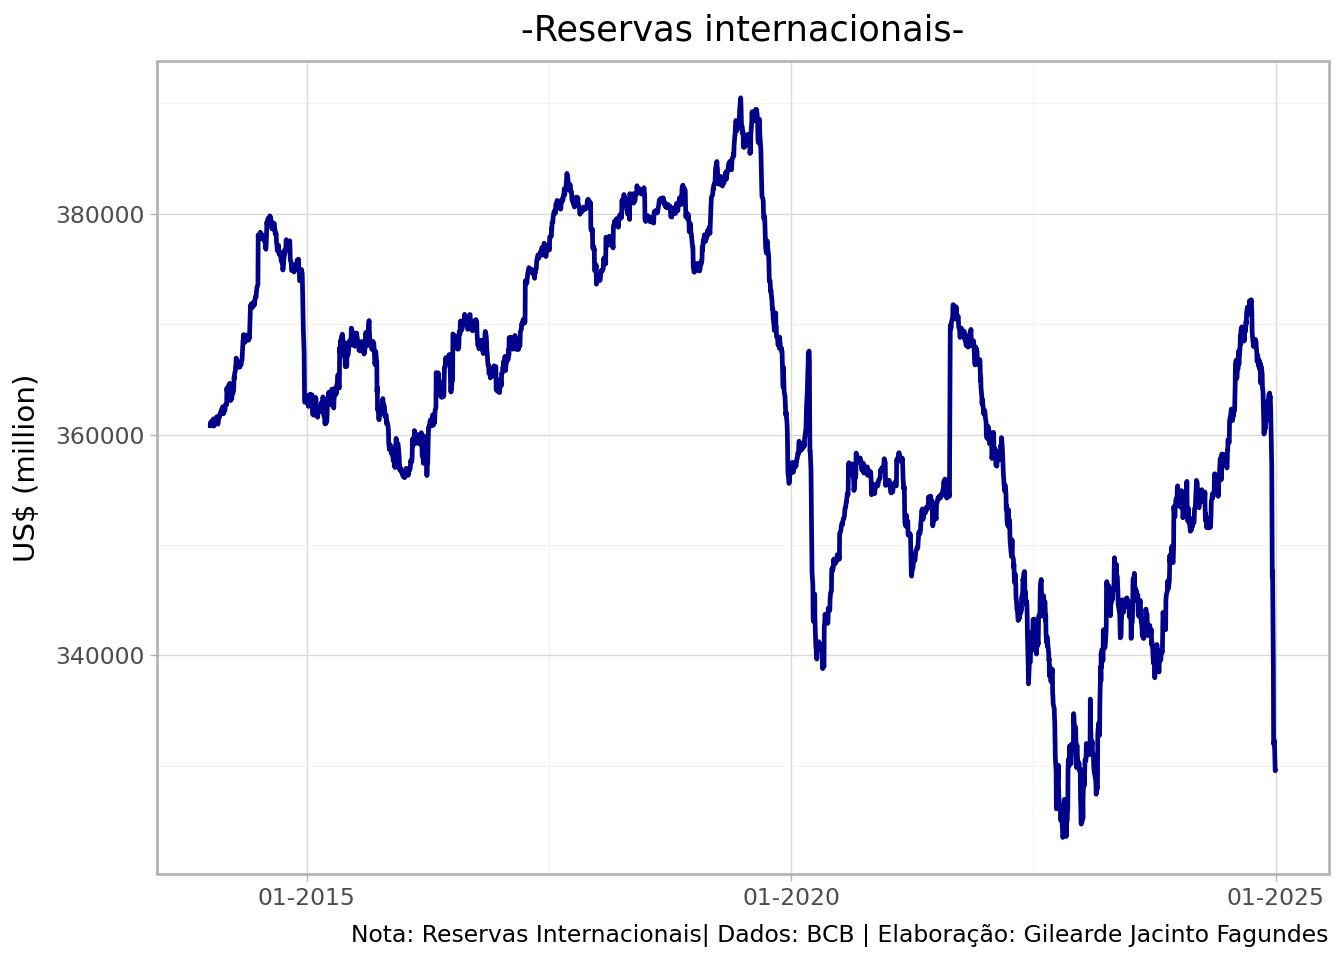
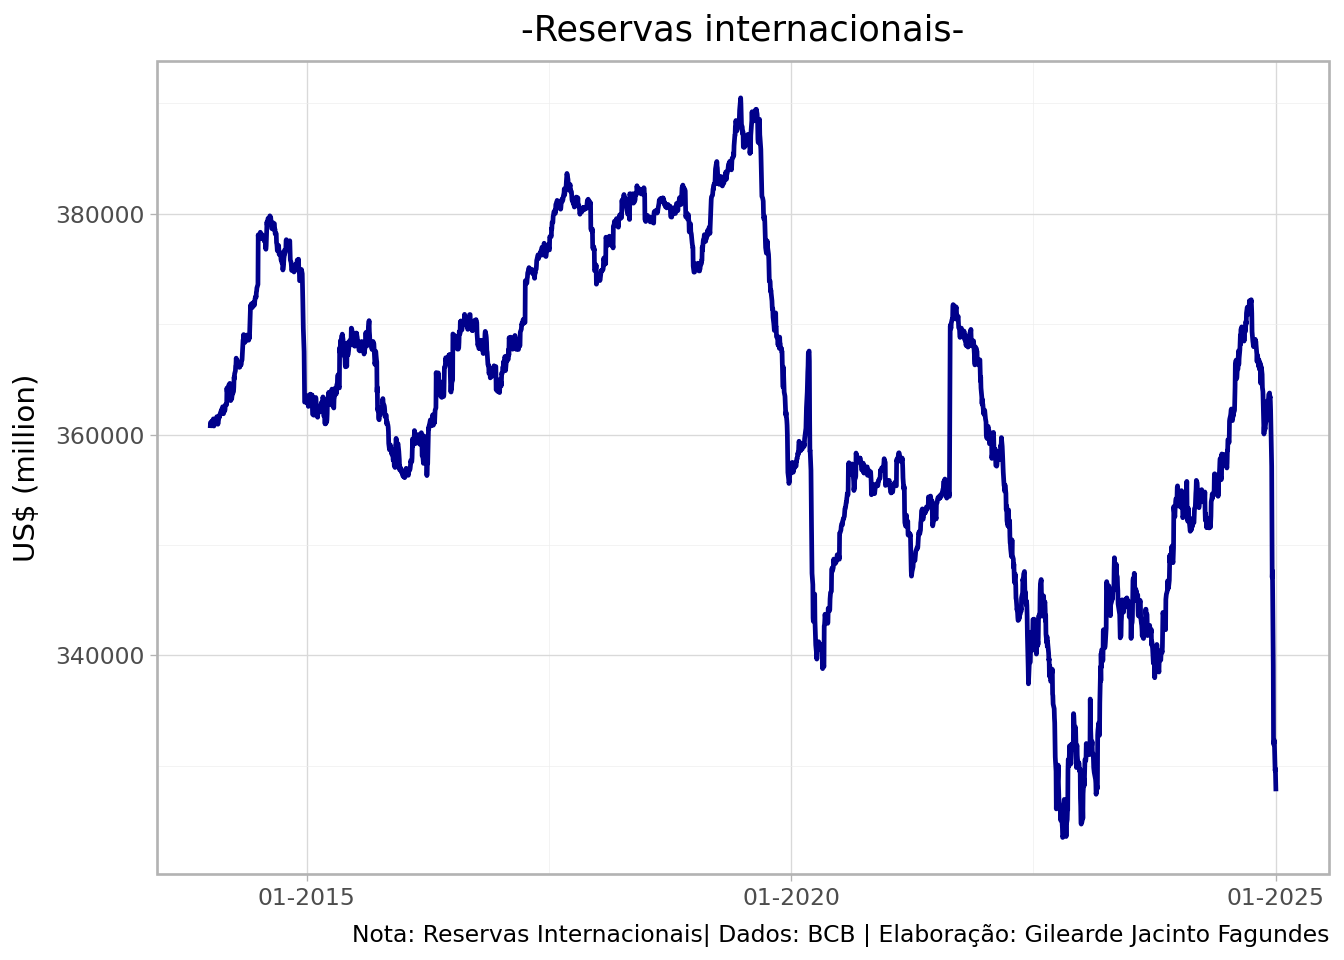
Atualização de relatorio e dashboard

Changed region(s): [[0.25, 0.9688, 1.0, 1.0]]

diff --git a/relatorio/relatorio.html b/relatorio/relatorio.html
@@ -107,14 +107,14 @@ pre > code.sourceCode > span > a:first-child::before { text-decoration: underlin
 
 
 <p>Dados coletados da API do Banco Central do Brasil.</p>
-<div id="59b70230" class="cell" data-execution_count="1">
+<div id="d9cb8553" class="cell" data-execution_count="1">
 <div class="sourceCode cell-code" id="cb1"><pre class="sourceCode python code-with-copy"><code class="sourceCode python"><span id="cb1-1"><a href="#cb1-1" aria-hidden="true" tabindex="-1"></a><span class="co"># Import Librarys</span></span>
 <span id="cb1-2"><a href="#cb1-2" aria-hidden="true" tabindex="-1"></a><span class="im">from</span> bcb <span class="im">import</span> sgs</span>
 <span id="cb1-3"><a href="#cb1-3" aria-hidden="true" tabindex="-1"></a><span class="im">import</span> pandas <span class="im">as</span> pd</span>
 <span id="cb1-4"><a href="#cb1-4" aria-hidden="true" tabindex="-1"></a><span class="im">import</span> plotnine <span class="im">as</span> p9</span></code><button title="Copy to Clipboard" class="code-copy-button"><i class="bi"></i></button></pre></div>
 </div>
-<p>Utilização da library SGS/BCB :</p>
-<div id="a1d04523" class="cell" data-execution_count="2">
+<p>Utilização da library SGS/BCB:</p>
+<div id="a72f67ce" class="cell" data-execution_count="2">
 <div class="sourceCode cell-code" id="cb2"><pre class="sourceCode python code-with-copy"><code class="sourceCode python"><span id="cb2-1"><a href="#cb2-1" aria-hidden="true" tabindex="-1"></a><span class="co"># Collect data</span></span>
 <span id="cb2-2"><a href="#cb2-2" aria-hidden="true" tabindex="-1"></a>dados <span class="op">=</span> sgs.get(</span>
 <span id="cb2-3"><a href="#cb2-3" aria-hidden="true" tabindex="-1"></a>    codes<span class="op">=</span>{<span class="st">"reserva"</span>: <span class="dv">13621</span>},</span>
@@ -123,7 +123,7 @@ pre > code.sourceCode > span > a:first-child::before { text-decoration: underlin
 <span id="cb2-6"><a href="#cb2-6" aria-hidden="true" tabindex="-1"></a>)</span></code><button title="Copy to Clipboard" class="code-copy-button"><i class="bi"></i></button></pre></div>
 </div>
 <p>Os dados brutos obtidos no SGS/BCB são exibidos abaixo:</p>
-<div id="b11a9207" class="cell" data-execution_count="3">
+<div id="fcd670cb" class="cell" data-execution_count="3">
 <div class="sourceCode cell-code" id="cb3"><pre class="sourceCode python code-with-copy"><code class="sourceCode python"><span id="cb3-1"><a href="#cb3-1" aria-hidden="true" tabindex="-1"></a>dados</span></code><button title="Copy to Clipboard" class="code-copy-button"><i class="bi"></i></button></pre></div>
 <div class="cell-output cell-output-display" data-execution_count="3">
 <div>
@@ -166,37 +166,37 @@ pre > code.sourceCode > span > a:first-child::before { text-decoration: underlin
 <td>...</td>
 </tr>
 <tr class="odd">
-<td data-quarto-table-cell-role="th">2024-12-24</td>
-<td>331945</td>
-</tr>
-<tr class="even">
 <td data-quarto-table-cell-role="th">2024-12-26</td>
 <td>332081</td>
 </tr>
-<tr class="odd">
+<tr class="even">
 <td data-quarto-table-cell-role="th">2024-12-27</td>
 <td>332306</td>
 </tr>
-<tr class="even">
+<tr class="odd">
 <td data-quarto-table-cell-role="th">2024-12-30</td>
 <td>329537</td>
 </tr>
-<tr class="odd">
+<tr class="even">
 <td data-quarto-table-cell-role="th">2024-12-31</td>
 <td>329730</td>
+</tr>
+<tr class="odd">
+<td data-quarto-table-cell-role="th">2025-01-02</td>
+<td>327676</td>
 </tr>
 </tbody>
 </table>
 
-<p>2761 rows × 1 columns</p>
+<p>2762 rows × 1 columns</p>
 </div>
 </div>
 </div>
 <p>Valores e datas da maxima e minima das Reservas Internacionais Totais:</p>
-<div id="ca88600f" class="cell" data-execution_count="4">
+<div id="3f76dfc7" class="cell" data-execution_count="4">
 <div class="sourceCode cell-code" id="cb4"><pre class="sourceCode python code-with-copy"><code class="sourceCode python"><span id="cb4-1"><a href="#cb4-1" aria-hidden="true" tabindex="-1"></a>dados <span class="op">=</span> dados.assign(data <span class="op">=</span> dados.index)</span></code><button title="Copy to Clipboard" class="code-copy-button"><i class="bi"></i></button></pre></div>
 </div>
-<div id="1f1ebcec" class="cell" data-execution_count="5">
+<div id="4e188a06" class="cell" data-execution_count="5">
 <div class="sourceCode cell-code" id="cb5"><pre class="sourceCode python code-with-copy"><code class="sourceCode python"><span id="cb5-1"><a href="#cb5-1" aria-hidden="true" tabindex="-1"></a>menor_valor <span class="op">=</span> dados.reserva.<span class="bu">min</span>() </span>
 <span id="cb5-2"><a href="#cb5-2" aria-hidden="true" tabindex="-1"></a>data_menor_valor <span class="op">=</span> dados.reserva.idxmin().date()</span>
 <span id="cb5-3"><a href="#cb5-3" aria-hidden="true" tabindex="-1"></a>maior_valor<span class="op">=</span>dados.reserva.<span class="bu">max</span>()</span>
@@ -208,7 +208,7 @@ pre > code.sourceCode > span > a:first-child::before { text-decoration: underlin
 </div>
 </div>
 <p>Gráfico de linha com a série das Reservas Internacionais Totais:</p>
-<div id="76925af2" class="cell" data-execution_count="6">
+<div id="dc3558f8" class="cell" data-execution_count="6">
 <div class="sourceCode cell-code" id="cb7"><pre class="sourceCode python code-with-copy"><code class="sourceCode python"><span id="cb7-1"><a href="#cb7-1" aria-hidden="true" tabindex="-1"></a><span class="co"># Line Graph</span></span>
 <span id="cb7-2"><a href="#cb7-2" aria-hidden="true" tabindex="-1"></a>chart<span class="op">=</span>p9.ggplot(data <span class="op">=</span> dados) <span class="op">+\</span></span>
 <span id="cb7-3"><a href="#cb7-3" aria-hidden="true" tabindex="-1"></a>  p9.aes(x <span class="op">=</span> <span class="st">"data"</span>, y <span class="op">=</span> <span class="st">"reserva"</span>) <span class="op">+\</span></span>
@@ -222,7 +222,7 @@ pre > code.sourceCode > span > a:first-child::before { text-decoration: underlin
 <span id="cb7-11"><a href="#cb7-11" aria-hidden="true" tabindex="-1"></a>    ) <span class="op">+\</span></span>
 <span id="cb7-12"><a href="#cb7-12" aria-hidden="true" tabindex="-1"></a>  p9.theme_light()</span></code><button title="Copy to Clipboard" class="code-copy-button"><i class="bi"></i></button></pre></div>
 </div>
-<div id="b45e3e20" class="cell" data-execution_count="7">
+<div id="dde0880d" class="cell" data-execution_count="7">
 <div class="sourceCode cell-code" id="cb8"><pre class="sourceCode python code-with-copy"><code class="sourceCode python"><span id="cb8-1"><a href="#cb8-1" aria-hidden="true" tabindex="-1"></a>chart</span></code><button title="Copy to Clipboard" class="code-copy-button"><i class="bi"></i></button></pre></div>
 <div class="cell-output cell-output-display">
 <div>
